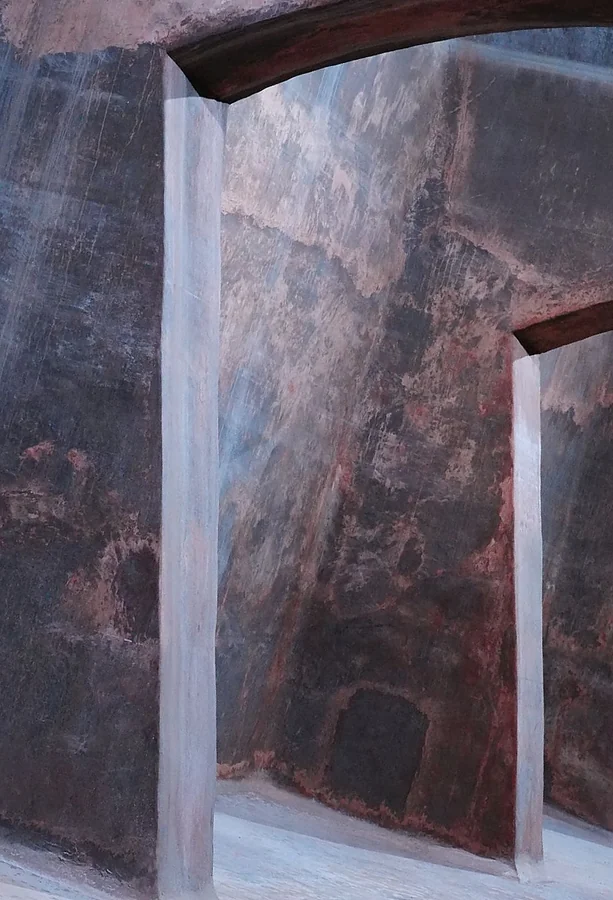
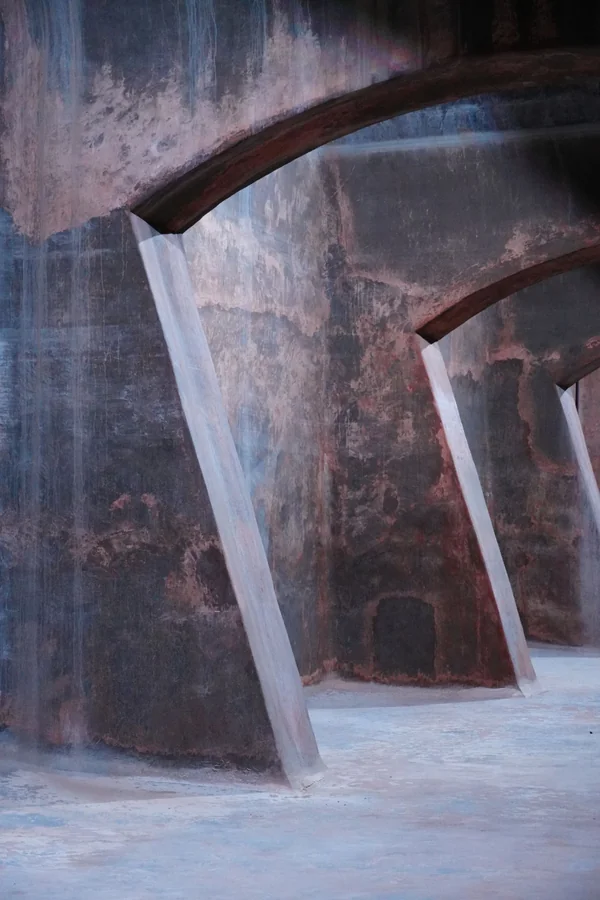
Wasserreservoir-Bild durch weiteren Ausschnitt ersetzt
- wasserreservoir-01.webp/-mobile.webp durch eine höher aufgelöste
  Aufnahme mit weiterem Bildausschnitt ersetzt (zeigt drei statt
  zwei Bogengänge) — Master-JPEG dazu neu abgelegt
- betrifft Portfolio-Vorschau auf der Startseite, Blog-Übersicht
  und das zweite Bild im Artikel "Wenn das Licht fehlt"
- Cache-Busting (?v=2) an allen vier Referenzen ergänzt, damit die
  neue Version nicht durch die alte, gleichnamige Datei im Browser-
  Cache verdeckt wird

Claude-Session: https://claude.ai/code/session_015frbDcK6bGNJAkYPahiL34

diff --git a/index.html b/index.html
@@ -155,7 +155,7 @@
   .img-portrait-02{background-image:url('assets/images/portraets/portrait-02-mobile.webp');}
   .img-hochzeit-02{background-image:url('assets/images/hochzeiten/hochzeit-02-mobile.webp');}
   .img-produkt-01{background-image:url('assets/images/produkt/produkt-01-mobile.webp');}
-  .img-blog-wasserreservoir{background-image:url('assets/images/blog/wasserreservoir-01-mobile.webp');}
+  .img-blog-wasserreservoir{background-image:url('assets/images/blog/wasserreservoir-01-mobile.webp?v=2');}
   .img-blog-irix{background-image:url('assets/images/blog/irix-cinematic-look-mobile.webp');}
   .img-blog-tier{background-image:url('assets/images/blog/tierfotografie-rentier-mobile.webp');}
   @media(min-width:980px){
@@ -166,7 +166,7 @@
     .img-portrait-02{background-image:url('assets/images/portraets/portrait-02.webp');}
     .img-hochzeit-02{background-image:url('assets/images/hochzeiten/hochzeit-02.webp');}
     .img-produkt-01{background-image:url('assets/images/produkt/produkt-01.webp');}
-    .img-blog-wasserreservoir{background-image:url('assets/images/blog/wasserreservoir-01.webp');}
+    .img-blog-wasserreservoir{background-image:url('assets/images/blog/wasserreservoir-01.webp?v=2');}
     .img-blog-irix{background-image:url('assets/images/blog/irix-cinematic-look.webp');}
     .img-blog-tier{background-image:url('assets/images/blog/tierfotografie-rentier.webp');}
   }

diff --git a/layouts/v3-herbstwaerme-navy-blog-wasserreservoir.html b/layouts/v3-herbstwaerme-navy-blog-wasserreservoir.html
@@ -98,7 +98,7 @@
   <p>Beim Fotografieren merkt man schnell, wie wichtig Licht ist. Es kann ein Bild komplett verändern. Mit dem richtigen Licht wirkt ein Motiv spannend, während es bei schlechtem Licht manchmal ganz anders aussieht als erwartet.</p>
   <p>Am Wasserreservoir musste ich besonders darauf achten, dass die Bilder nicht zu dunkel werden. Gleichzeitig wollte ich die natürliche Stimmung nicht verlieren. Das war gar nicht so einfach.</p>
 
-  <img class="inline-img" src="../assets/images/blog/wasserreservoir-01.webp" alt="Blick durch mehrere Bogengänge im Wasserreservoir, gestreiftes Licht fällt durch die Pfeiler">
+  <img class="inline-img" src="../assets/images/blog/wasserreservoir-01.webp?v=2" alt="Blick durch mehrere Bogengänge im Wasserreservoir, gestreiftes Licht fällt durch die Pfeiler">
 
   <h2>Was ich daraus gelernt habe</h2>
   <p>Durch dieses Shooting habe ich gemerkt, dass man beim Fotografieren manchmal Geduld braucht. Nicht jedes Bild gelingt sofort. Es lohnt sich, verschiedene Einstellungen und Perspektiven auszuprobieren und genauer auf die Umgebung zu achten.</p>

diff --git a/layouts/v3-herbstwaerme-navy-blog-index.html b/layouts/v3-herbstwaerme-navy-blog-index.html
@@ -77,7 +77,7 @@
   </div>
   <div class="list">
     <article class="entry">
-      <div class="ph" style="background-image:url('../assets/images/blog/wasserreservoir-01.webp')"></div>
+      <div class="ph" style="background-image:url('../assets/images/blog/wasserreservoir-01.webp?v=2')"></div>
       <div>
         <div class="meta">15. Oktober 2026 · Behind the Scenes</div>
         <h3>Wenn das Licht fehlt — Fotografieren am alten Wasserreservoir Oberallmend</h3>
